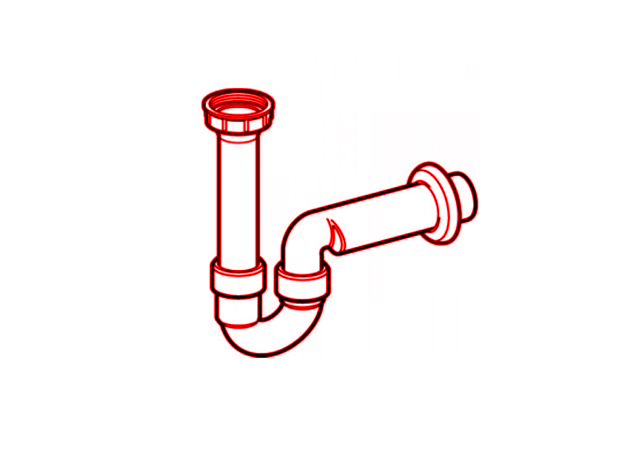
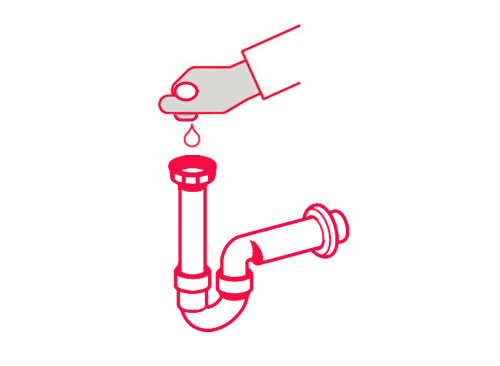
Afbeeldingen

diff --git a/webapp/afsluiters.html b/webapp/afsluiters.html
@@ -38,7 +38,7 @@
                 <a href="bedankt.html" class="left">Ja</a>
                <a href="kranen.html" class="right">Nee</a>
            </div>
-           <a href="img/afsluiters.png" data-featherlight="image">Waar kan ik de afsluiters vinden?</a>
+           <a href="img/afsluiters.png" data-featherlight="image">Hoe open ik de afsluiters?</a>
         </div>
           
 

diff --git a/webapp/stank.html b/webapp/stank.html
@@ -34,7 +34,7 @@
         <div class="vraag">
             <h3>Vul de overstort met water</h3>
 
-            <a href="img/overstort.png" data-featherlight="image">Waar kan ik de overstort vinden?</a>
+            <a href="img/overstort.png" data-featherlight="image">Hoe vul ik de overstort?</a>
 
             <div class="antwoorden">
                 
